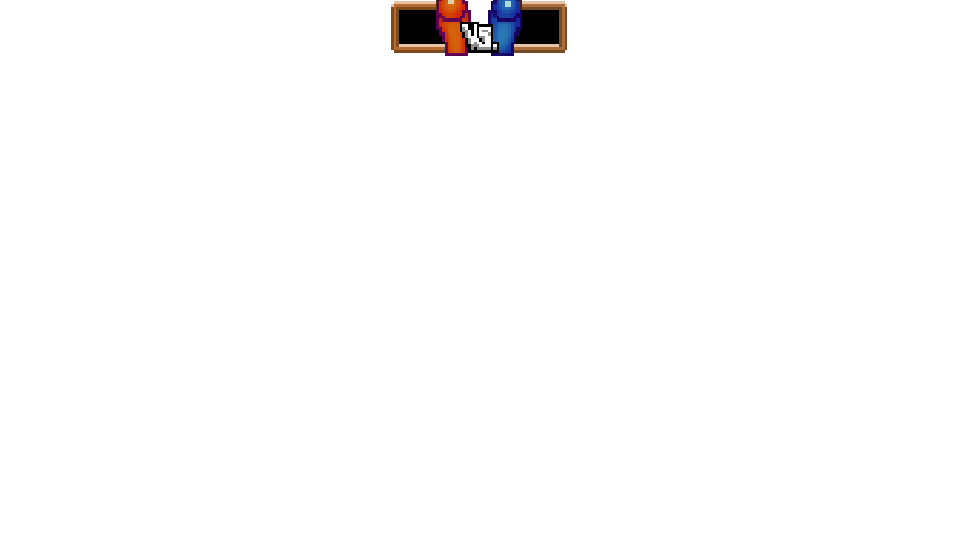
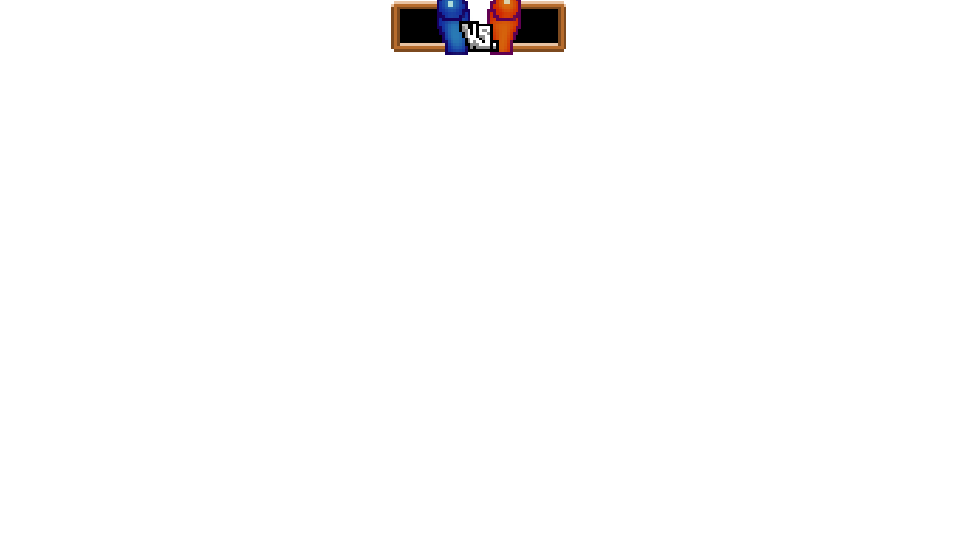
👌 placar update

Changed region(s): [[0.4062, 0.0, 0.5938, 0.1185]]

diff --git a/screen.py b/screen.py
@@ -149,7 +149,7 @@ class Screen:
         self.surface.blit(self.border, (75, 60))
         self.surface.blit(self.placar, (0, 0))
         score_font = pygame.font.Font("fonts/PressStart2P.ttf", 25)
-        score_text = score_font.render(f"{self.score[1]}    {self.score[0]}", True, Colors["White"])
+        score_text = score_font.render(f"{self.score[0]}    {self.score[1]}", True, Colors["White"])
         score_text_rect = score_text.get_rect()
         score_text_rect.center = (480, 30)
         self.surface.blit(score_text, score_text_rect)
@@ -185,9 +185,9 @@ class Screen:
 
         elif panel_type == "FINISH_GAME": 
             if self.score[0] == MAX_GOALS:
-                text_title = "YOU LOOSE" if self.type_game == "SINGLEPLAYER" else "PLAYER 1 WON!"
+                text_title = "YOU WIN" if self.type_game == "SINGLEPLAYER" else "PLAYER 1 WON!"
             elif self.score[1] == MAX_GOALS:
-                text_title = "YOU WIN" if self.type_game == "SINGLEPLAYER" else "PLAYER 2 WON!"
+                text_title = "YOU LOOSE" if self.type_game == "SINGLEPLAYER" else "PLAYER 2 WON!"
 
             text_one = "PRESS R TO PLAY AGAIN"
             text_two = "PRESS H TO RETURN TO HOMEPAGE"

diff --git a/config.py b/config.py
@@ -19,7 +19,7 @@ COLUMNS_VELOCITY = [5, 6, 6, 4, 4, 6, 6, 5]
 MULTIPLAYER = 2
 SINGLEPLAYER = 1
 
-MAX_GOALS = 2
+MAX_GOALS = 3
 
 
 def initial_players_coord():
